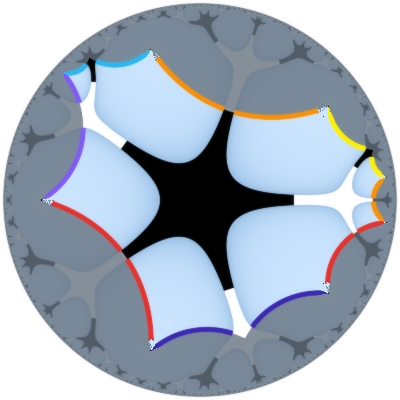
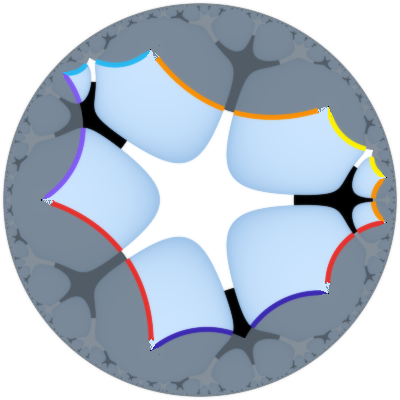
Prepare initial Bridges submission
Put white at 0 and black at 1, among other things.

diff --git a/docs/index.html b/docs/index.html
@@ -58,13 +58,14 @@ function setOrbitDisplay() {
 
 <div class="intro">
   <p>
-  <!--    These four drawings represent <a href="">Belyi maps</a>&mdash;cousins of the Mercator and Peirce projections used to make maps of the globe. Three of them are related by symmetries, and one of them stands alone. Can you spot the odd one out? -->
-  <!-- Below are four <a href="#dessin"><i>dessins d'enfants</i></a> (children's drawings), which are a certain kind of bicolored graph. Each one represents a different <a href="#Belyi"><i>Belyi map</i></a>&mdash;three-pointed branched covers of the Riemann sphere. Three of them are related by symmetries of algebraic numbers, while one of them stands alone. Can you spot the odd one out? -->
     The four pictures below are <a href="#dessin"><i>dessins d'enfants</i></a> (or <i>children's drawings</i>). They describe four <a href="#Belyi"><i>Belyi maps</i></a> from a surface to the sphere. Three of the maps are related by symmetries of the algebraic numbers that define them, while one map stands alone. Can you spot the odd one out?
+    <div class="orbit-controls">
+      <div><a href="#FAQ">More details <span style="font-family: 'Lato'">&#x2baf;</span></a></div>
+      <div><a href="">More puzzles <span style="font-family: 'Lato'">&#x2ba9;</span></a></div>
+    </div>
   </p>
   <div class="orbits">
     <p id="orbit-trivia" style="visibility: hidden">
-    <!-- In this case, the three related Belyi maps can only be defined over the extension of the rational numbers obtained by adjoining a root of the polynomial \(x^3 - x^2 + 2x - 38\). They are related by the field automorphisms that permute the roots of this polynomial. By contrast, the odd one out can be defined using only rational numbers. -->
     In this case, one map stands alone because we can describe it with rational numbers, which have no symmetries besides the identity. To describe the other three maps, we also need a root of the polynomial \(x^3 - x^2 + 2x - 38\). These three maps, and the numbers that describe them, are related by the symmetries that exchange the roots of the polynomial.
     </p>
     <div class="orbit-controls">
@@ -80,7 +81,7 @@ function setOrbitDisplay() {
     </div>
   </div>
 </div>
-<h2>Drawings to sort</h2>
+<h2>Drawings to sort <div style="display:inline; margin-left: 30px; font-style: italic; font-family: 'Lato'; font-size: 19px">Click and drag into the bins below</div></h2>
 <div class="tray-container">
   <div id="tray-0" class="tray"></div>
 </div>
@@ -120,7 +121,7 @@ for (i = 0; i < orbits.length; i++) {
 setOrbitDisplay();
 </script>
 
-<h1>Technical FAQ</h1>
+<h1 id="FAQ">Technical FAQ</h1>
 
 <h2 id="Belyi">What is a Belyi map?</h2>
 <div class="two-col">

diff --git a/docs/chorno-belyi.css b/docs/chorno-belyi.css
@@ -3,7 +3,7 @@
 }
 
 body {
-  margin: 20px 40px 40px 40px;
+  margin: 20px 40px 20px 40px;
   font-family: 'Lato', sans-serif;
   font-size: 17px;
   background-color: #b8e5fe;
@@ -106,7 +106,7 @@ scrolling containers */
 
 .text-col {
   display: inline-block;
-  max-width: 700px;
+  max-width: 900px;
 }
 
 .image-col {

diff --git a/tile_vispy.py b/tile_vispy.py
@@ -346,7 +346,7 @@ vec3 strip_color(
   float scaling = length(h.push[0]);
   
   // draw ribbon graph
-  vec3 ribbon = vec3(edge_mix(0, 1, h.pt.x, scaling, r_px));
+  vec3 ribbon = vec3(edge_mix(1, 0, h.pt.x, scaling, r_px));
   vec3 sky = mix(vec3(0.8, 0.9, 1.0), vec3(0.6, 0.75, 0.9), 0.5 / max(h_pos.y, 0.5));
   
   // dim unlit half-triangles
